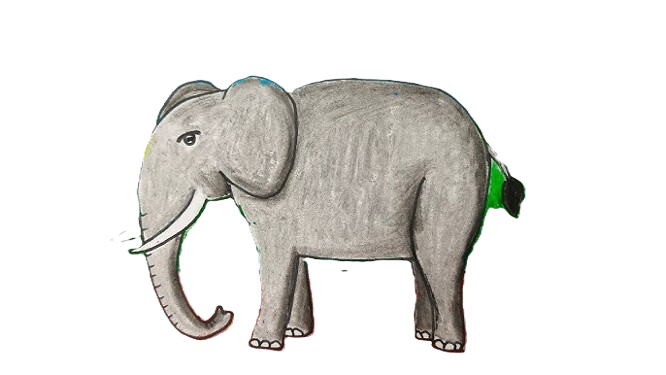
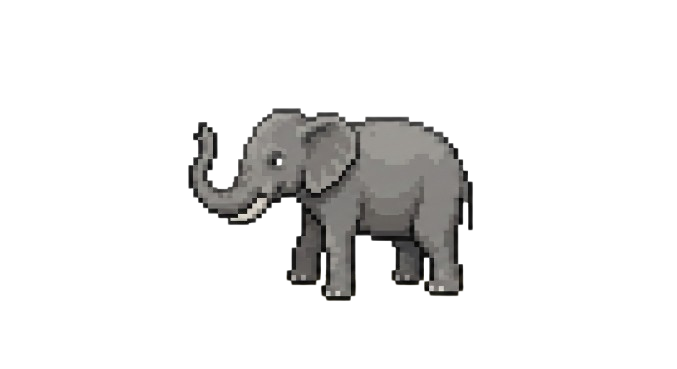
thay doi hinh anh dong vat

Changed region(s): [[0.1802, 0.1789, 0.8108, 0.9539]]

diff --git a/src/main/java/org/openjfx/app/core/WorldMap.java b/src/main/java/org/openjfx/app/core/WorldMap.java
@@ -401,9 +401,12 @@ public class WorldMap {
                 imageCache.put(imagePath, img);
             }
 
-            double renderX = entity.getPosition().x - (entity.getSize() / 2);
-            double renderY = entity.getPosition().y - (entity.getSize() / 2);
-            gc.drawImage(img, renderX, renderY, entity.getSize(), entity.getSize());
+            double aspect = img.getWidth() / img.getHeight();
+            double drawH = entity.getSize();
+            double drawW = drawH * aspect;
+            double renderX = entity.getPosition().x - drawW / 2;
+            double renderY = entity.getPosition().y - drawH / 2;
+            gc.drawImage(img, renderX, renderY, drawW, drawH);
             
         } catch (Exception e) {
             gc.setFill(Color.RED);

diff --git a/src/main/java/org/openjfx/app/MainApp.java b/src/main/java/org/openjfx/app/MainApp.java
@@ -56,12 +56,9 @@ public class MainApp extends Application {
         worldMap.addEntity(new Rabbit(new Vector2D(410, 350)));
         worldMap.addEntity(new Rabbit(new Vector2D(450, 350)));
         worldMap.addEntity(new Rabbit(new Vector2D(400, 350)));
-        worldMap.addEntity(new Rabbit(new Vector2D(430, 350)));
-        //worldMap.addEntity(new Wolf(new Vector2D(330, 350)));
+
         worldMap.addEntity(new Wolf(new Vector2D(500, 300)));
 
-        //worldMap.addEntity(new Grass(new Vector2D(550, 200)));
-        //worldMap.addEntity(new Grass(new Vector2D(500, 200)));
 
         Canvas canvas = new Canvas(WIDTH, HEIGHT);
         GraphicsContext gc = canvas.getGraphicsContext2D();

diff --git a/src/main/java/org/openjfx/app/entities/movable/Wolf.java b/src/main/java/org/openjfx/app/entities/movable/Wolf.java
@@ -11,7 +11,7 @@ public class Wolf extends Carnivore {
     public Wolf(Vector2D position) {
         super(
                 position,
-                40.0,      // size
+                20.0,      // size (chiều cao hiển thị)
                 "circle",  // shape
                 200.0,     // initialHealth
                 3.0,       // hungerRate
@@ -39,6 +39,6 @@ public class Wolf extends Carnivore {
 
     @Override
     public String toString() {
-        return "org/openjfx/app/Wolf.png";
+        return "org/openjfx/app/wolf.png";
     }
 }

diff --git a/src/main/java/org/openjfx/app/entities/movable/Rabbit.java b/src/main/java/org/openjfx/app/entities/movable/Rabbit.java
@@ -13,7 +13,7 @@ public class Rabbit extends Herbivore {
         // maxSpeed, maxForce, mass, wanderDistance, wanderRadius
         super(
                 position,
-            20,
+            28,
                 "circle",
                 100.0,
                 0.0,
@@ -40,6 +40,6 @@ public class Rabbit extends Herbivore {
     @Override
     public String toString() {
         // Đường dẫn đến tài nguyên hình ảnh
-        return "org/openjfx/app/Rabbit.png";
+        return "org/openjfx/app/rabbit.png";
     }
 }

diff --git a/src/main/java/org/openjfx/app/entities/movable/Fish.java b/src/main/java/org/openjfx/app/entities/movable/Fish.java
@@ -39,6 +39,6 @@ public class Fish extends Herbivore {
     @Override
     public String toString() {
         // Đảm bảo đường dẫn này khớp với file trong resources
-        return "org/openjfx/app/Fish.png";
+        return "org/openjfx/app/fish.png";
     }
 }

diff --git a/src/main/java/org/openjfx/app/entities/movable/Elephant.java b/src/main/java/org/openjfx/app/entities/movable/Elephant.java
@@ -43,6 +43,6 @@ public class Elephant extends Herbivore {
     @Override
     public String toString() {
         // Đảm bảo file này tồn tại trong resources
-        return "org/openjfx/app/Elephant.png";
+        return "org/openjfx/app/elephant.png";
     }
 }

diff --git a/src/main/java/org/openjfx/app/entities/movable/Bear.java b/src/main/java/org/openjfx/app/entities/movable/Bear.java
@@ -38,6 +38,6 @@ public class Bear extends Carnivore {
 
     @Override
     public String toString() {
-        return "org/openjfx/app/Bear.png";
+        return "org/openjfx/app/bear.png";
     }
 }
